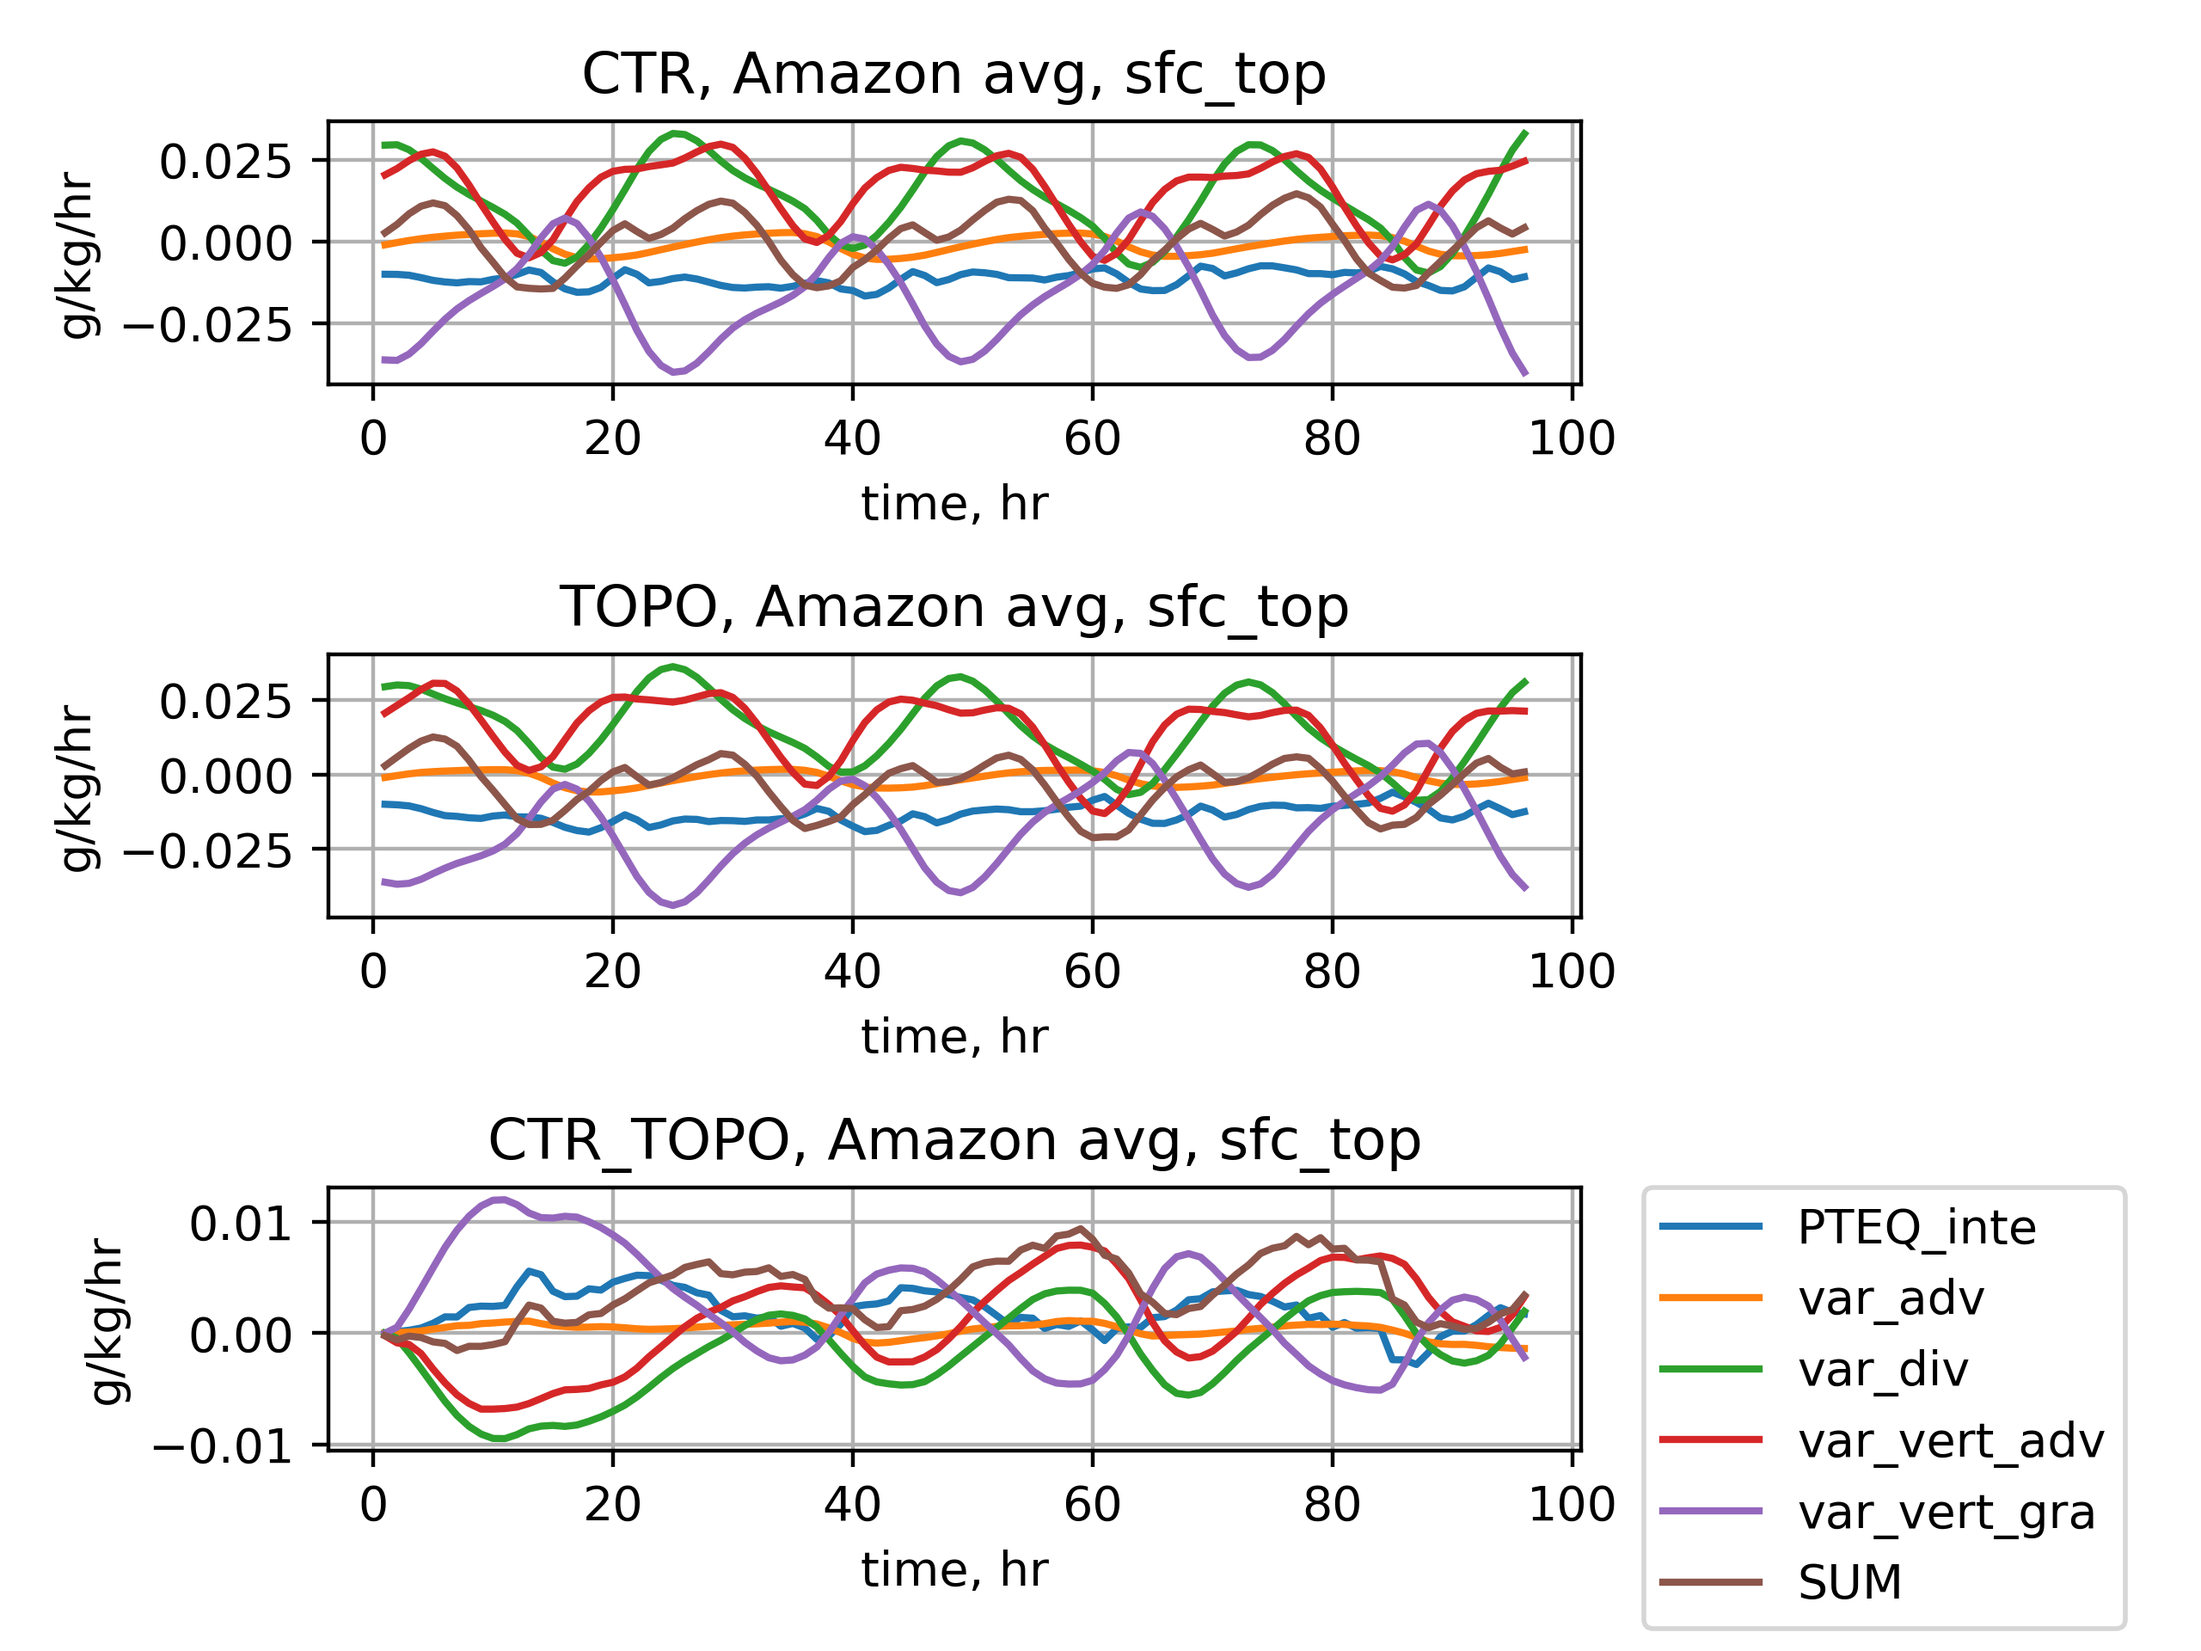
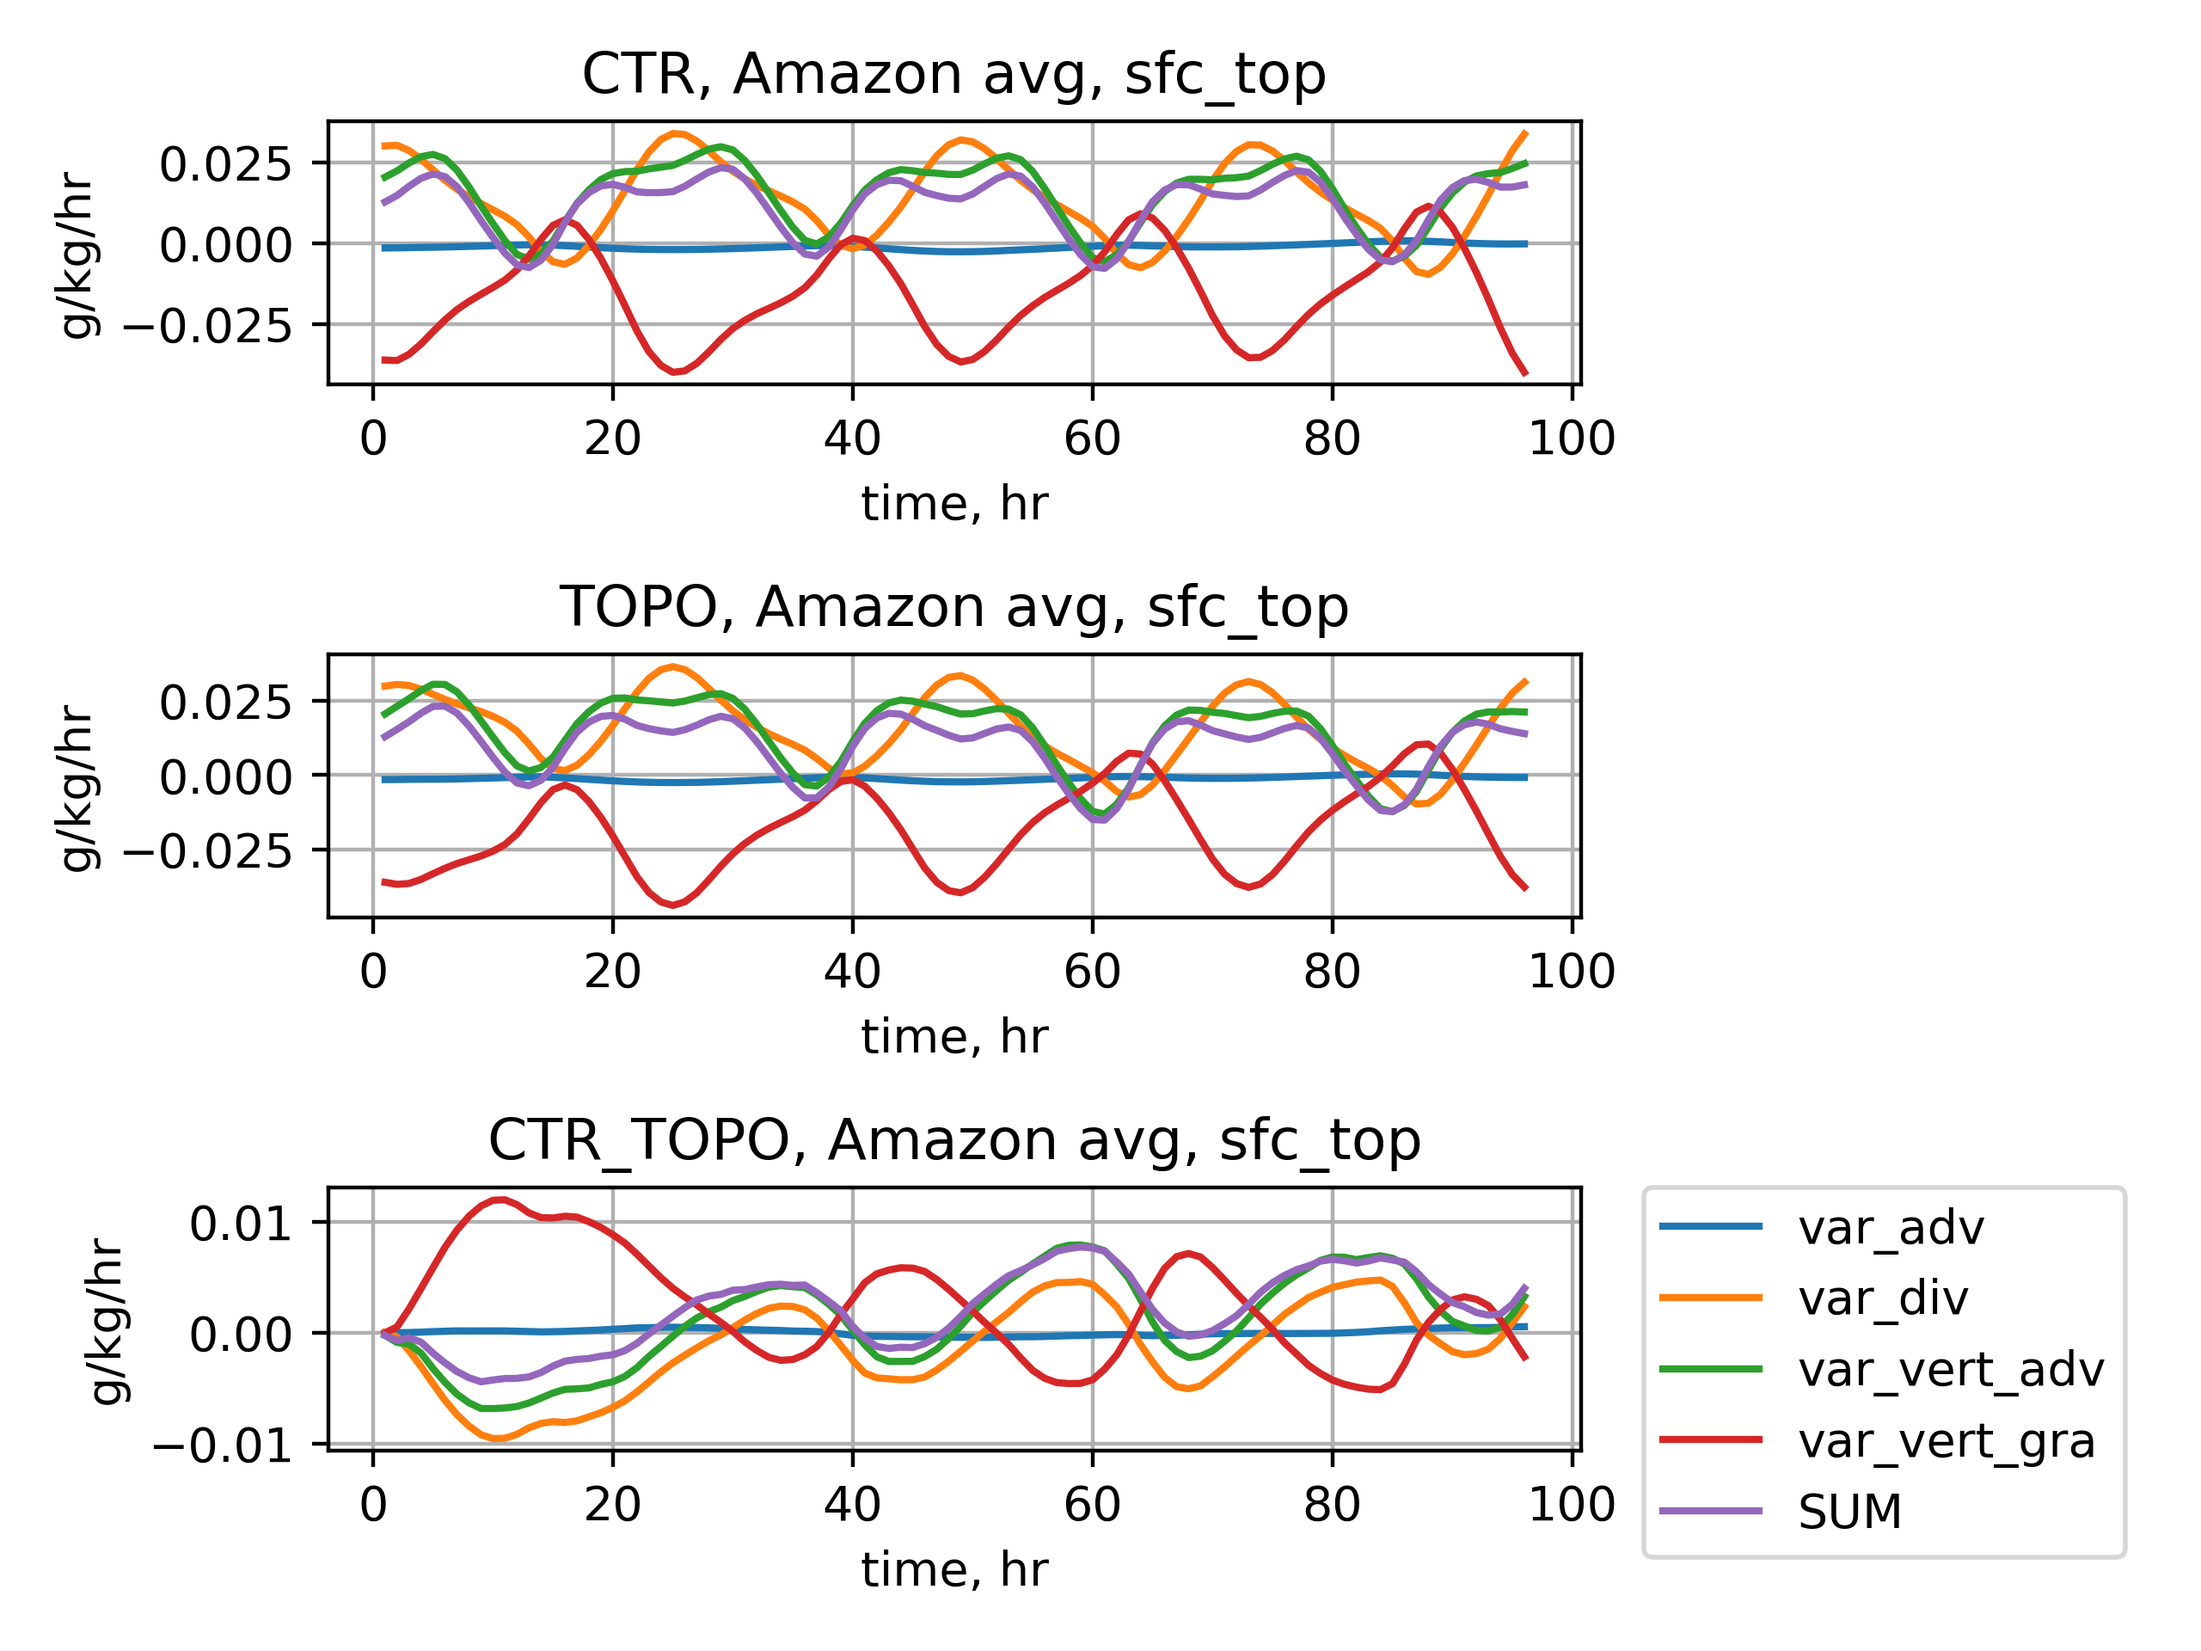
Q_MS_update

diff --git a/sim2_TOPO_vs_CTR_ENS_HCforcing_h2_Inteference_Modi_test/Modi_plus_macro_and_micro/Code/Q_related/15_f_Amazon_mean_sfc_top_vertical_integral_time_series.py b/sim2_TOPO_vs_CTR_ENS_HCforcing_h2_Inteference_Modi_test/Modi_plus_macro_and_micro/Code/Q_related/15_f_Amazon_mean_sfc_top_vertical_integral_time_series.py
@@ -11,9 +11,9 @@ import matplotlib.pyplot as plt
 
 data_path = '/DFS-L/DATA/pritchard/hongcheq/OLD/scratch/hongcheq/\
 HCforcing_sim2_WADA_CTR_TOPO_ENSEMBLE_post-processing_h2_tapes_New_Modifications/Qadv/'
-file_names = ['PTEQ_inte','var_adv','var_div','var_vert_adv','var_vert_gra']
+file_names = ['var_adv','var_div','var_vert_adv','var_vert_gra']
 
-data_vars = np.zeros((5,96)) # 6 vars x 96 hours
+data_vars = np.zeros((4,96)) # 4+1 vars x 96 hours
 
 cases = ['CTR', 'TOPO', 'CTR_TOPO']
 

diff --git a/sim2_TOPO_vs_CTR_ENS_HCforcing_h2_Inteference_Modi_test/Modi_plus_macro_and_micro/Code/Q_related/4_b_Q_vertical_integral_decomposition_time_series.py b/sim2_TOPO_vs_CTR_ENS_HCforcing_h2_Inteference_Modi_test/Modi_plus_macro_and_micro/Code/Q_related/4_b_Q_vertical_integral_decomposition_time_series.py
@@ -79,5 +79,5 @@ for i_case in range(len(cases)):
 plt.legend(bbox_to_anchor=(1.05, 1), loc='best', borderaxespad=0.)
 plt.tight_layout()
 #plt.show()
-plt.savefig('../Figures/Q_vertical_integral_decomp.new.png')
+plt.savefig('./Q_vertical_integral_decomp.new.png')
 
